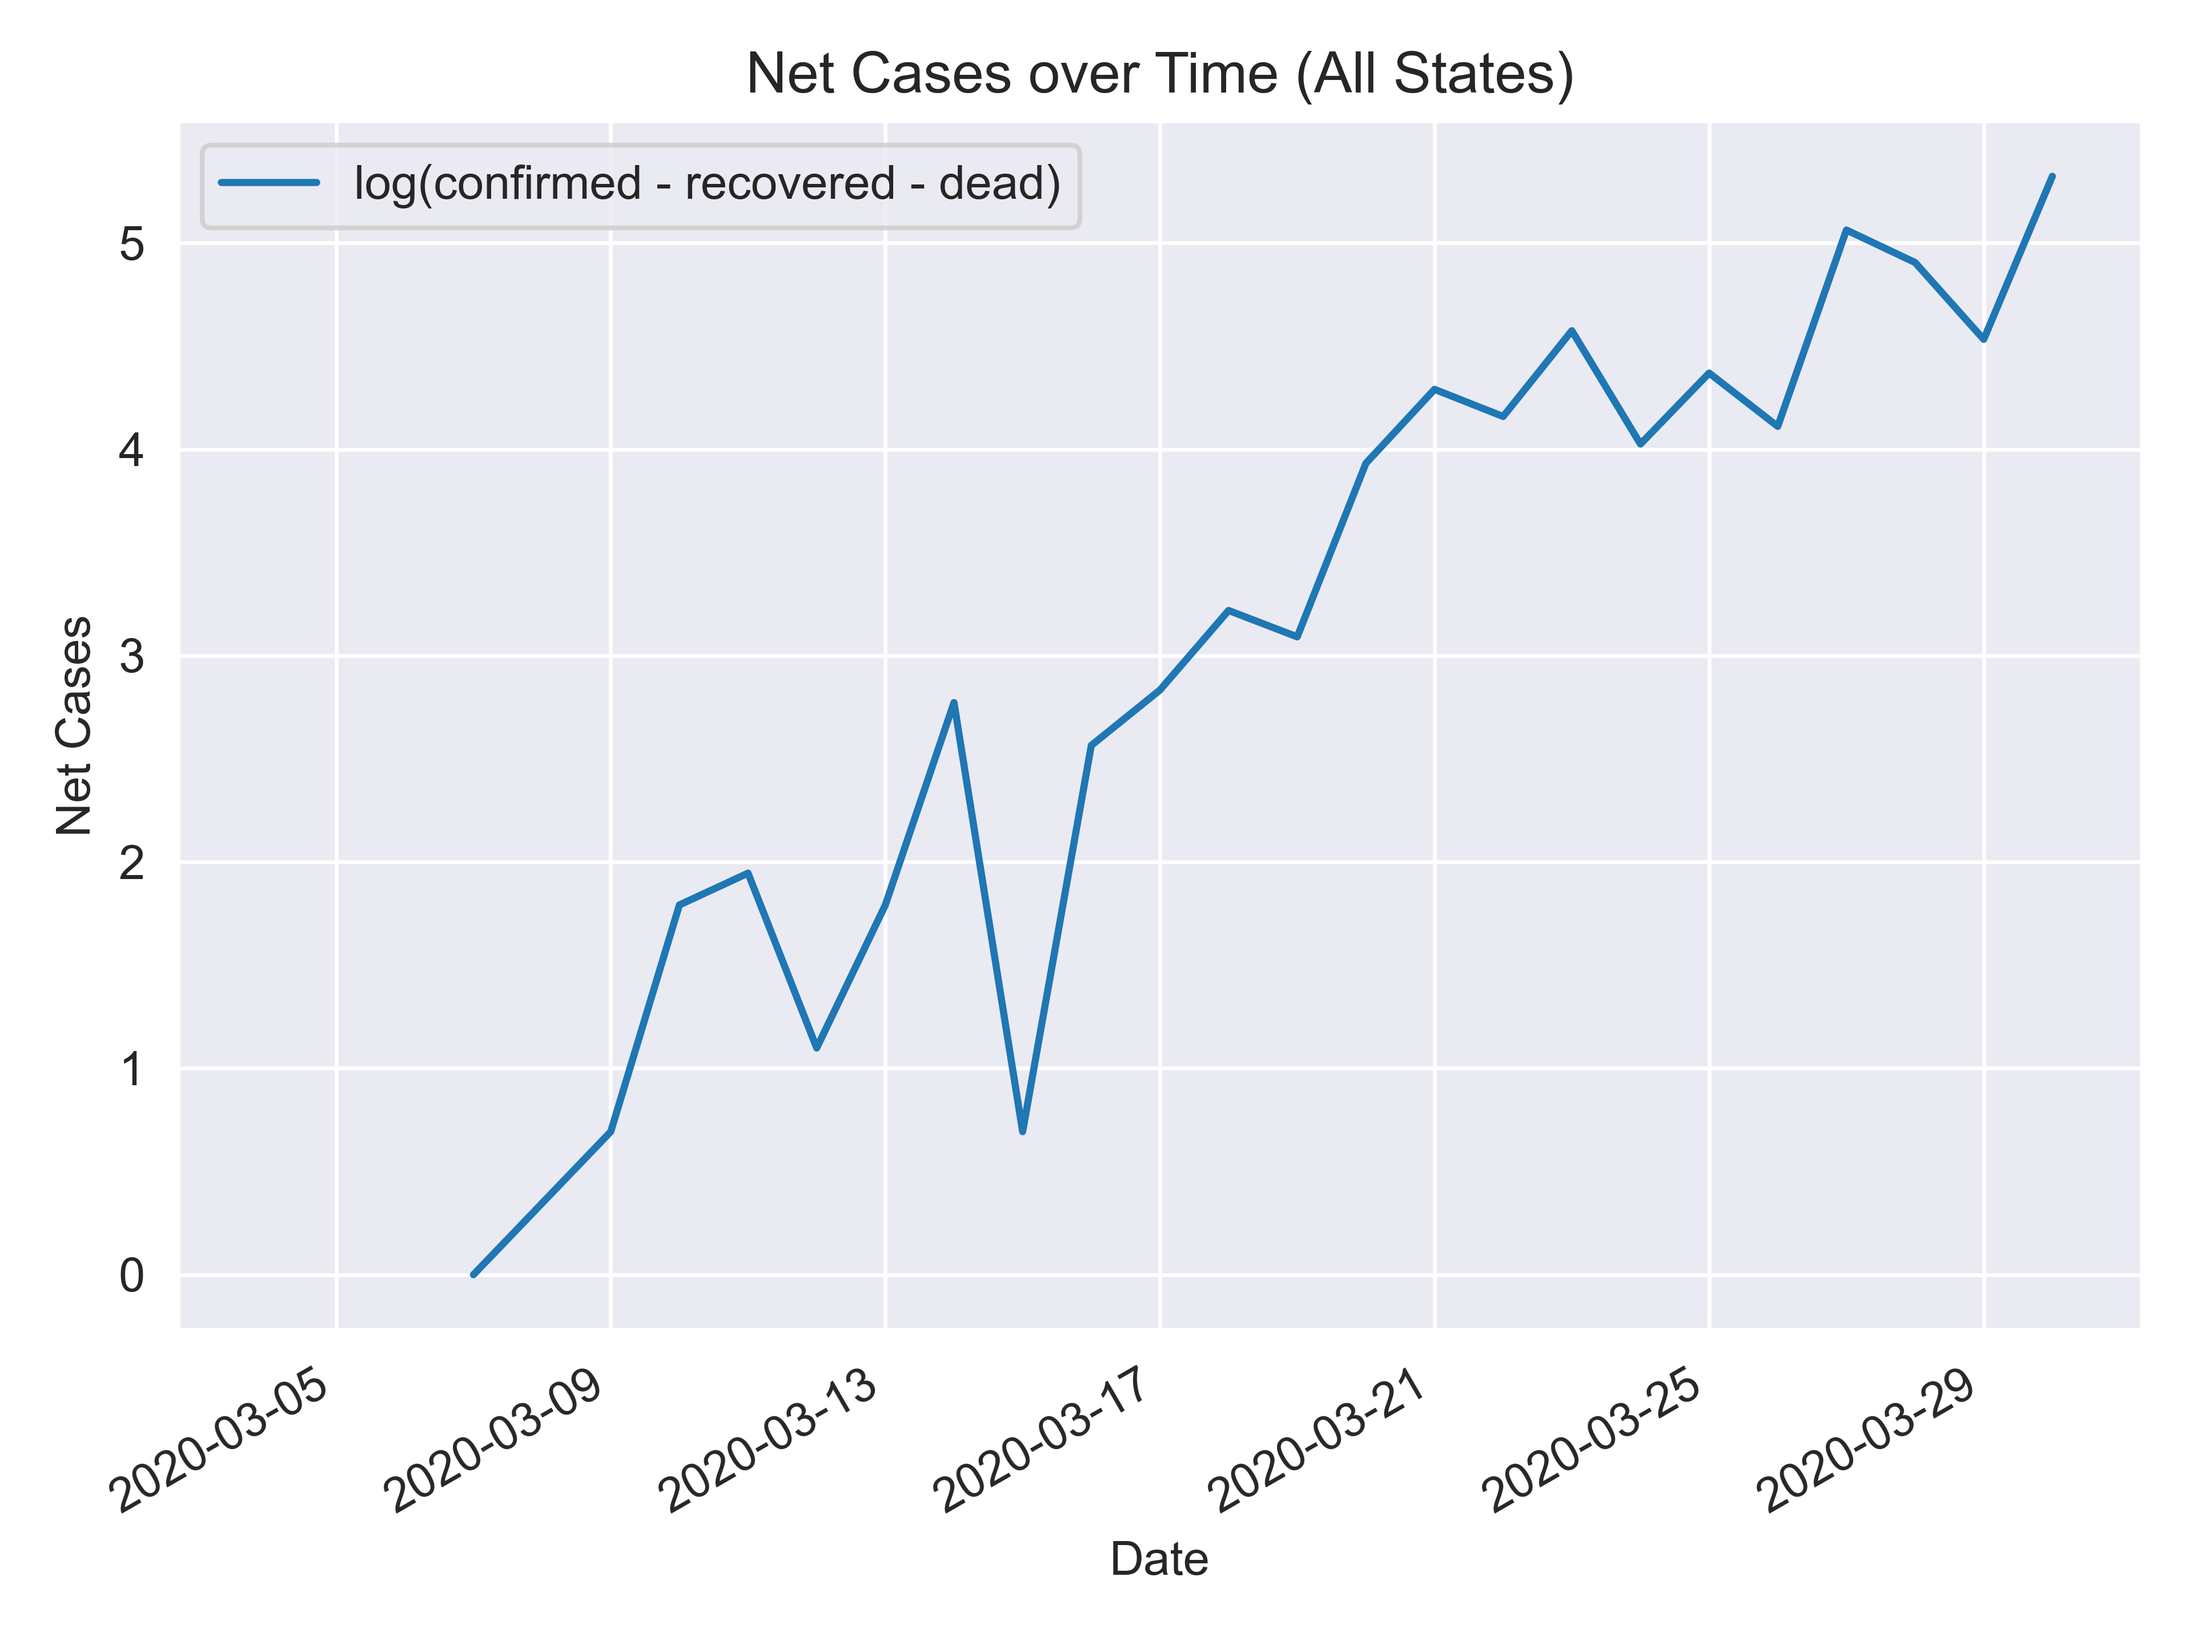
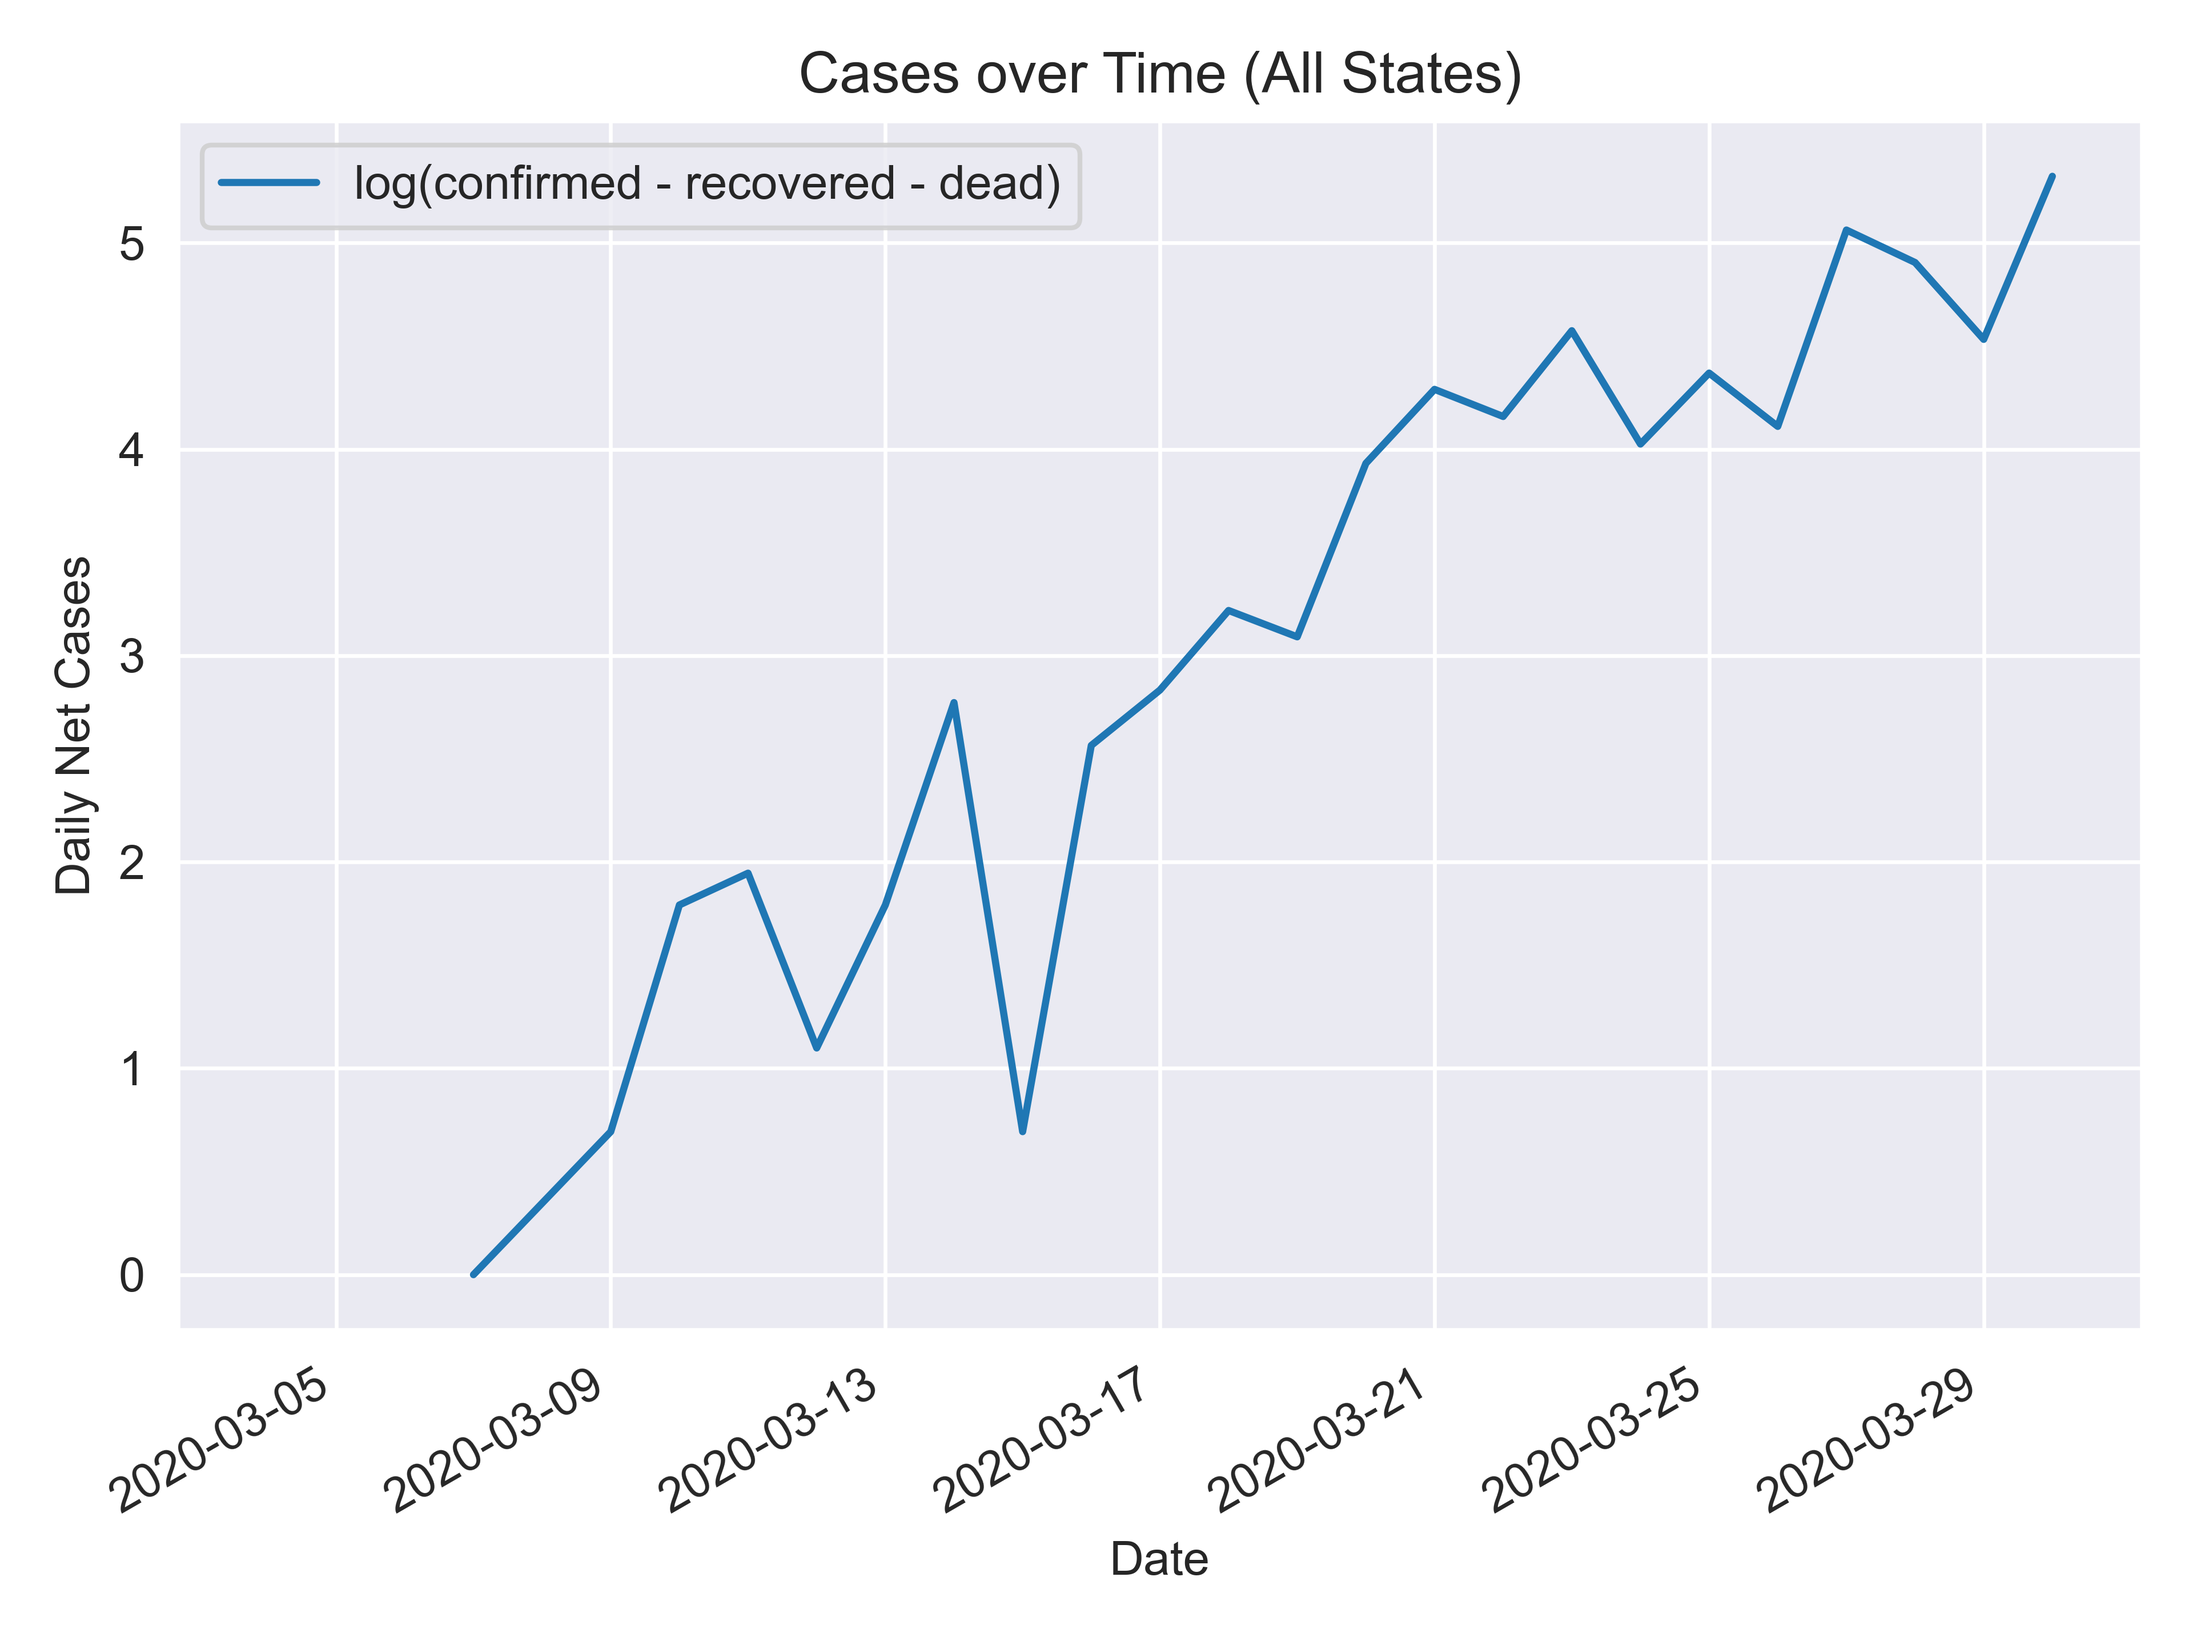
feasible analyses done

Changed region(s): [[0.3438, 0.0312, 0.7188, 0.0625], [0.0312, 0.3438, 0.0625, 0.5312]]

diff --git a/india/growthratefit.py b/india/growthratefit.py
@@ -1,5 +1,6 @@
 from pathlib import Path
 from typing import Optional, Tuple
+import warnings
 
 import numpy as np
 import pandas as pd
@@ -54,17 +55,19 @@ def load_data(datapath: Path, reduced: bool = False) -> pd.DataFrame:
         dayfirst    = True, # source data does not have consistent date format so cannot rely on inference
         parse_dates = ["date announced", "status change date"])
 
+def assume_missing_0(df: pd.DataFrame, col: str):
+    return df[col] if col in df.columns else 0
 
-def run_analysis(df: pf.DataFrame, 
+def run_analysis(df: pd.DataFrame, 
         state: Optional[str] = None, 
         drop_kl3: bool  = True, # whether to drop the Feb cases in Kerala 
         window: int = 3, 
         infectious_period: float = 4.5,
         note: Optional[str] = None, 
-        show_plots: bool = False) -> Tuple[int, int, int]:
+        show_plots: bool = False) -> Tuple[int, int, int, int]:
 
     # filter data as needed and set up filename components
-    if state:
+    if state and state.replace(" ", "").lower() not in ("all", "allstate", "allstates"):
         df = df[df["detected state"] == state]
         label = state.replace(" ", "_").lower()
     else: 
@@ -72,15 +75,19 @@ def run_analysis(df: pf.DataFrame,
         label = "allstates"
     if drop_kl3:
         df = df[df["date announced"] > "2020/02/29"]
+    
+    if len(df) < 3:
+        return 0, None, None, None
+    
     note = '_' + note if note else ''
-
+    
     output = Path(__file__).parent/"plots"
 
     # calculate daily totals and growth rate
     totals = df.groupby(["status change date", "current status"])["patient number"].count().unstack().fillna(0)
     totals["date"]     = totals.index
     totals["time"]     = (totals["date"] - totals["date"].min()).dt.days
-    totals["logdelta"] = np.log(totals["Hospitalized"] - totals["Recovered"] - totals["Deceased"])
+    totals["logdelta"] = np.log(assume_missing_0(totals, "Hospitalized") - assume_missing_0(totals, "Recovered") -  assume_missing_0(totals, "Deceased"))
     
     # run rolling regressions and get parameters
     model   = RollingOLS.from_formula(formula = "logdelta ~ time", window = window, data = totals)
@@ -96,37 +103,80 @@ def run_analysis(df: pf.DataFrame,
     growthrates["R"]            = growthrates.gradient * infectious_period + 1
     growthrates["RM"]           = growthrates.gradient + 2 * growthrates.gradient_stderr * infectious_period + 1
     growthrates["Rm"]           = growthrates.gradient - 2 * growthrates.gradient_stderr * infectious_period + 1
+    growthrates["date"]         = growthrates.index
     growthrates["days"]         = totals.time
 
-    # TODO (satej): infectious vs time (show models and best fit from original code)
-
     # extrapolate growth rate into the future
-    pred = sm.OLS.from_formula("gradient ~ days", data = growthrates.iloc[-5:]).fit()
+    predrates = growthrates.iloc[-5:].copy()
+    predrates["days"] -= predrates["days"].min()
+    pred = sm.OLS.from_formula("gradient ~ days", data = predrates).fit()
     pred_intercept, pred_gradient = pred.params
-    days_to_critical, days_to_criticalm, days_to_criticalM = map(int, -pred_intercept/(pred_gradient + pred.bse[1] * np.array([0, -2, 2])))
+    pred_se = pred.bse[1]
+    days_to_critical  = int(-pred_intercept/pred_gradient)
+    days_to_criticalM = int(-pred_intercept/(pred_gradient + 2 * pred_se))
+    days_to_criticalm = int(-pred_intercept/(pred_gradient - 2 * pred_se))
 
     # figure: log delta vs time
     fig, ax = plt.subplots()
     totals.plot(y = "logdelta", ax = ax, label = "log(confirmed - recovered - dead)")
     plt.xlabel("Date")
-    plt.ylabel("Net Cases")
-    plt.title(f"Net Cases over Time ({state})")
+    plt.ylabel("Daily Net Cases")
+    plt.title(f"Cases over Time ({state})")
     plt.tight_layout()
     plt.savefig(output/f"cases_over_time_{label}{note}.png", dpi = 600)
 
-    # figure: 
+    # figure: extrapolation
+    # t0 = growthrates.iloc[-5:].days.max()
+    # t = np.arange(t0, t0 + max(days_to_criticalm, days_to_criticalM) + 1)
+    # pred_lower = pred_intercept + t * (pred_gradient - 2 * pred_se)
+    # pred_upper = pred_intercept + t * (pred_gradient + 2 * pred_se)
+    
+    fig, ax = plt.subplots()
+    # plt.fill_between(t, pred_upper, pred_lower, alpha = 0.3)
+    
+    plt.plot(growthrates.days, growthrates.gradient, 'ro-', alpha = 0.6)
+    plt.fill_between(growthrates.days, growthrates.egrowthratem, growthrates.egrowthrateM, color='gray', alpha=0.3)
+    plt.xlabel("Days of Outbreak")
+    plt.ylabel("Growth Rate")
+    plt.title(state)
+    plt.tight_layout()
+    plt.savefig(output/f"extrapolation_{label}{note}.png", dpi = 600)
 
-    if show_plots: plt.show()
+    # figure: reproductive rate vs critical level 
+    fig, ax = plt.subplots()
+    plt.plot(growthrates.date, growthrates.R, 'ro-', alpha = 0.6)
+    plt.fill_between(growthrates.date, growthrates.Rm, growthrates.RM, color='gray', alpha=0.3)
+    plt.xlabel("Date")
+    plt.ylabel("Reproductive Rate")
+    plt.title(state)
+    plt.tight_layout()
+    plt.savefig(output/f"reproductive_rate_{label}{note}.png", dpi = 600)
 
-    return (days_to_critical, days_to_criticalm, days_to_criticalM)
+    if show_plots: 
+        plt.show()
+    plt.close("all")
+
+    return (len(totals.index), days_to_critical, days_to_criticalm, days_to_criticalM)
 
 if __name__ == "__main__":
+    warnings.filterwarnings("ignore")
     seaborn.set_style('darkgrid')
     
-    df = load_data(Path(__file__).parent/"india_case_data_resave.csv", reduced = True)
+    root = Path(__file__).parent
+    df = load_data(root/"india_case_data_resave.csv", reduced = True)
 
+    state_dct = []
     print("Running analysis for: ")
-    for state in [None] + list(df["detected state"].unique()):
-        dtc, _, _ = run_analysis(df, state)
-        print(f"  + {state if state else 'All States'} (days to critical: {dtc})")
+    for state in ["All States"] + list(df["detected state"].unique()):
+        try:
+            n, dtc, dtcm, dtcM = run_analysis(df, state)
+            if dtc:
+                print(f"  + {state} ({n} dates total, {dtc} days to critical)")
+                state_dct.append([state, n, dtc, dtcm, dtcM])
+            else: 
+                print(f"  + {state} (insufficient data)")
+        except Exception as e:
+            print(f"  + {state} (insufficient data {e})")
+    
+    pd.DataFrame(state_dct, columns = ["state", "n", "dct", "dctm", "dctM"]).set_index("state").to_csv(root/"state_dct.csv")
         
